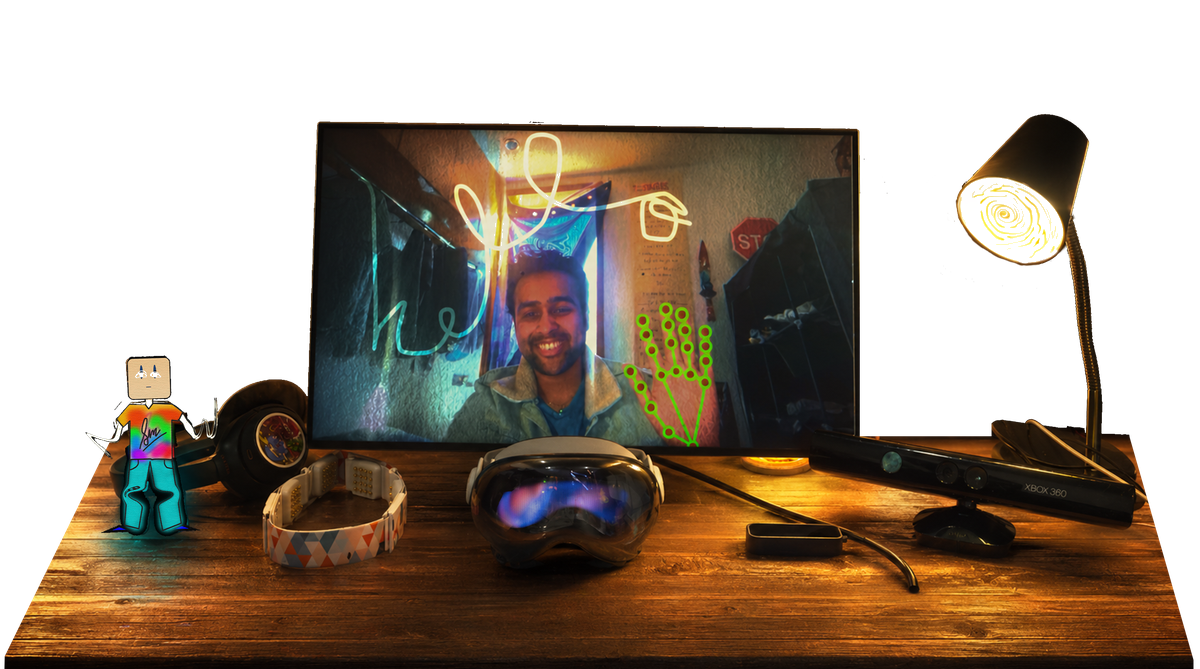
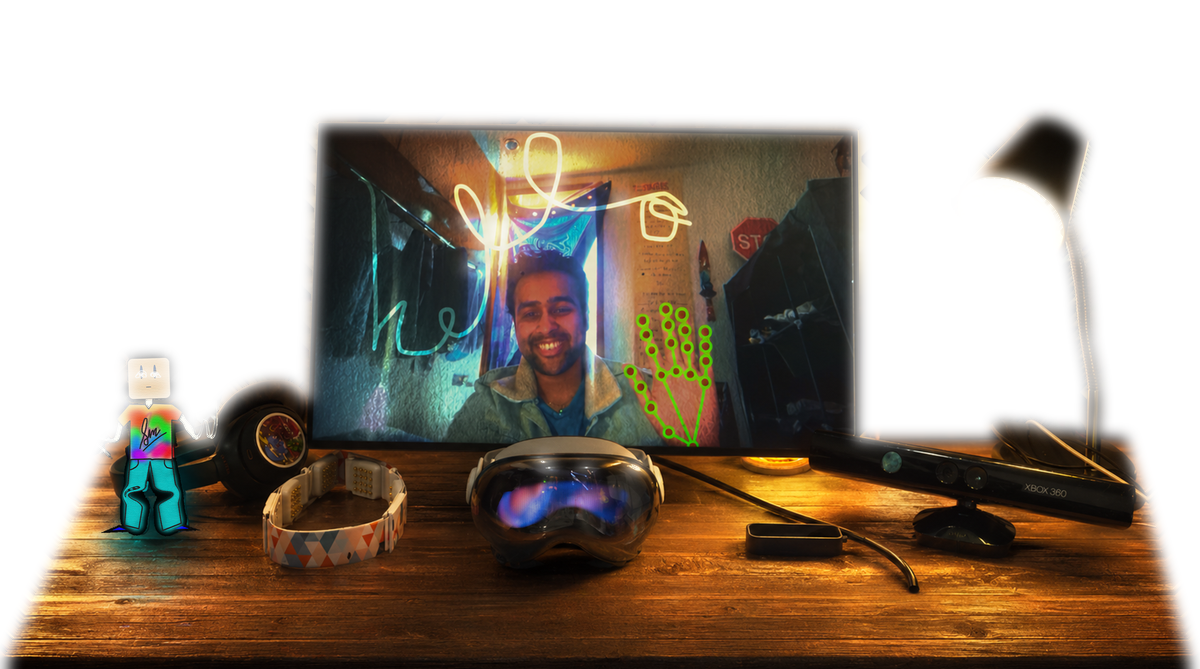
fix: contact page read as two slides because it was literally two papers
Three separate defects, none of them the one I went looking for.

1. Two creams. The light-mode scrims on .contact-shell::before, ::after and
   .contact-desk__fade painted rgba(240,236,227) and rgba(243,239,231), but
   --bg in light mode is rgb(245,243,238). So the left forty percent of the
   screen was a warmer, darker sheet than the right, with a soft vertical
   boundary down the middle of the page. That band edge is the entire reason
   it read as a left-right slide. All thirteen values now match --bg exactly,
   measured 243-247 uniformly across the full width after the fix.

2. The scissor edge. Both desk plates are cut-out PNGs whose alpha went from
   zero to full in a single row -- a soft-pixel fraction of 0.004. Against
   black that is invisible; against cream it was an eighty-value luminance
   step across four pixels running the full width of the frame, which is the
   most pasted-in thing that can happen to a photograph. The plates now carry
   a feathered alpha, colour-bled outward first so the falloff does not
   dissolve into the black stored in the transparent pixels, then eroded and
   blurred so the ramp stays centred on the original silhouette. Paired with
   two drop-shadows, wide and soft for the object weight, tight and dark for
   the contact, because a cut-out reads as pasted precisely because it casts
   nothing. Dark mode improved too, the hard vertical seam at x 1200 is gone.
[…]

diff --git a/_layouts/contact.html b/_layouts/contact.html
@@ -134,8 +134,16 @@
           height: 100%;
         }
 
-        /* The one auto margin that does all of it. */
-        .contact-primary {
+        /* The one auto margin that does all of it.
+
+           Written as a child selector on purpose. The plain .contact-primary
+           rule that sets margin-top: 30px is declared further down this same
+           stylesheet, so at equal specificity it won on source order and this
+           media query did nothing at all -- the column stayed top-anchored and
+           the 284px dead band it was written to remove was still there. One
+           extra class in the selector is enough to settle it, and settles it
+           independently of where either rule happens to sit in the file. */
+        .contact-copy > .contact-primary {
           margin-top: auto;
         }
       }
@@ -944,14 +952,36 @@
          Everything else in the frame is well below clipping and simply gets a
          touch deeper, which the lit tabletop wants anyway. Saturation goes up
          as brightness comes down so the desk does not go grey with it. */
+      /* THE SCISSOR EDGE.
+         table_new.png is a cut-out: 44% of it is transparent, and the opaque
+         silhouette used to start on one row with no falloff at all. Against
+         black that boundary is invisible, because what sits outside the cut is
+         the same darkness as what sits just inside it. Against cream it was an
+         80-value step across four pixels running the full width of the frame,
+         which is the most pasted-in thing that can happen to a picture -- not
+         a photograph of a room, a photograph laid on a desk.
+
+         The plates themselves now carry a feathered alpha, so the silhouette
+         dissolves over about forty screen pixels instead of ending. This pair
+         of shadows is the other half of it: a cut-out on paper reads as pasted
+         precisely because it casts nothing. drop-shadow follows the alpha
+         exactly, so the transition is paper to shadow to photo, and the plate
+         sits on the sheet rather than being punched through it. Wide and soft
+         for the object's weight, tight and dark for the contact -- the pair a
+         real object under a high key throws. Offset down and slightly left
+         because the key in this photograph is high and to the right, which is
+         also where ::before puts the cast shadow and where the 104deg shade
+         above runs. */
       html[data-theme="light"] .contact-desk__pixel {
-        filter: saturate(0.98) contrast(1.02) brightness(0.93);
+        filter: saturate(0.98) contrast(1.02) brightness(0.93) drop-shadow(-7px 18px 30px rgba(52, 44, 34, 0.24))
+          drop-shadow(-1px 3px 5px rgba(52, 44, 34, 0.22));
       }
       html[data-theme="light"] .contact-desk__real {
-        filter: saturate(1.04) contrast(1.02) brightness(0.93);
+        filter: saturate(1.04) contrast(1.02) brightness(0.93) drop-shadow(-7px 18px 30px rgba(52, 44, 34, 0.24))
+          drop-shadow(-1px 3px 5px rgba(52, 44, 34, 0.22));
       }
       html[data-theme="light"] .contact-shell::before {
-        background: linear-gradient(0deg, rgba(240, 236, 227, 0.97) 0%, rgba(240, 236, 227, 0.82) 38%, rgba(240, 236, 227, 0) 100%);
+        background: linear-gradient(0deg, rgba(245, 243, 238, 0.97) 0%, rgba(245, 243, 238, 0.82) 38%, rgba(245, 243, 238, 0) 100%);
       }
       html[data-theme="light"] .contact-meta {
         /* 2.6–2.8:1 over the lit tabletop — the same row that needed lifting
@@ -969,10 +999,10 @@
       html[data-theme="light"] .contact-shell::after {
         background: linear-gradient(
           104deg,
-          rgba(240, 236, 227, 0.95) 0%,
-          rgba(240, 236, 227, 0.86) 22%,
-          rgba(240, 236, 227, 0.4) 44%,
-          rgba(240, 236, 227, 0) 62%
+          rgba(245, 243, 238, 0.95) 0%,
+          rgba(245, 243, 238, 0.86) 22%,
+          rgba(245, 243, 238, 0.4) 44%,
+          rgba(245, 243, 238, 0) 62%
         );
       }
 
@@ -999,7 +1029,7 @@
         mask-image: linear-gradient(96deg, rgba(0, 0, 0, 1) 50%, rgba(0, 0, 0, 0.86) 62%, rgba(0, 0, 0, 0.42) 76%, rgba(0, 0, 0, 0) 87%);
       }
       html[data-theme="light"] .contact-desk__fade {
-        background: linear-gradient(96deg, rgba(243, 239, 231, 0) 46%, rgba(243, 239, 231, 0.3) 66%, rgba(243, 239, 231, 0.52) 80%);
+        background: linear-gradient(96deg, rgba(245, 243, 238, 0) 46%, rgba(245, 243, 238, 0.3) 66%, rgba(245, 243, 238, 0.52) 80%);
       }
       @media (max-width: 900px) {
         /* The render is knocked back to 0.58 on phones so the copy can sit
@@ -1016,7 +1046,7 @@
           opacity: 0.92;
         }
         html[data-theme="light"] .contact-shell::after {
-          background: linear-gradient(0deg, rgba(240, 236, 227, 0.97) 0%, rgba(240, 236, 227, 0.7) 54%, rgba(240, 236, 227, 0.14) 100%);
+          background: linear-gradient(0deg, rgba(245, 243, 238, 0.97) 0%, rgba(245, 243, 238, 0.7) 54%, rgba(245, 243, 238, 0.14) 100%);
         }
       }
 
